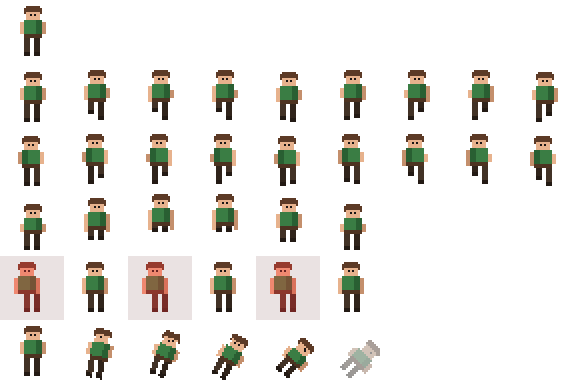
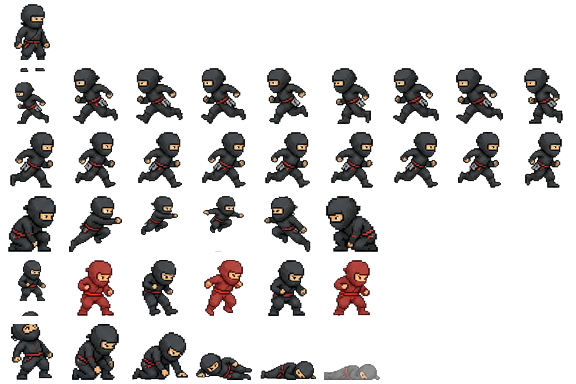
Replace procedural placeholder with an AI-generated ninja spritesheet
Extracted the real player art from an AI-generated source image
(tools/player_ai_source_raw.png) instead of the procedural stick-figure
placeholder. The image-gen model didn't use one consistent grid across
rows (the 6-frame rows like jump/hit/death were spaced differently than
the 9-frame walk rows), so tools/extract_player_sheet_from_ai_source.py
detects each character by scanning for connected non-background column
ranges per row rather than assuming fixed cell math, then crops each to
its bounding box and centers/bottom-aligns it into a 64x64 cell.

Verified in-game: idle, walk, jump, hit (red flash), and death (collapse)
all render correctly with the new sheet. tools/generate_player_sprite.py
is kept as a fallback/example and now says so, since running it would
overwrite this art with the old placeholder again.

Claude-Session: https://claude.ai/code/session_019oaB5ryC3pTEWKgWwECVMb

diff --git a/player.js b/player.js
@@ -1,8 +1,9 @@
 // ==== GRACZ ====
-// images/player/character.png - proceduralnie wygenerowany pixel-art spritesheet
-// (skrypt: tools/generate_player_sprite.py), 64x64px/klatkę, układ wierszy
-// dokładnie taki jak w `states` poniżej. Chcesz podmienić na własną grafikę
-// z LPC Sprite Generatora (https://liberatedpixelcup.github.io/Universal-LPC-Spritesheet-Character-Generator/)?
+// images/player/character.png - pixel-artowy ninja wygenerowany modelem AI
+// (surowa grafika: tools/player_ai_source_raw.png, wycięta i ułożona w klatki
+// przez tools/extract_player_sheet_from_ai_source.py), 64x64px/klatkę, układ
+// wierszy dokładnie taki jak w `states` poniżej. Chcesz podmienić na własną
+// grafikę z LPC Sprite Generatora (https://liberatedpixelcup.github.io/Universal-LPC-Spritesheet-Character-Generator/)?
 // Wystarczy podmienić ścieżkę niżej i dopasować `row` do układu wierszy w Twoim arkuszu.
 const PLAYER_ANIM_DATA = {
     sheets: [

diff --git a/tools/extract_player_sheet_from_ai_source.py b/tools/extract_player_sheet_from_ai_source.py
@@ -1,0 +1,136 @@
+"""
+Wycina spritesheet gracza (images/player/character.png) z surowego obrazu
+wygenerowanego przez model AI (tools/player_ai_source_raw.png, patrz prompt
+w README/rozmowie - postać "ninja", układ 1/9/9/6/6/6 klatek na wiersz).
+
+Modele obrazkowe (w tym GPT Image) NIE trzymają jednej sztywnej siatki kolumn
+w całym arkuszu - np. wiersz "jump" (6 klatek) miał postacie nierówno
+rozstawione w ~2/3 szerokości obrazu, inaczej niż wiersze z 9 klatkami.
+Dlatego zamiast liczyć komórki matematycznie, wykrywamy klatki metodą
+"connected columns": skanujemy każdy wiersz w poziomie i szukamy spójnych
+zakresów kolumn z nie-tłem (z tolerancją na małe przerwy, np. między nogami
+biegnącej postaci), po czym każdą postać przycinamy do jej bounding boxa
+i wklejamy wyśrodkowaną/przyklejoną do dołu w komórce 64x64.
+
+Użycie: pip install Pillow && python3 tools/extract_player_sheet_from_ai_source.py
+Nadpisuje images/player/character.png.
+"""
+import os
+from PIL import Image
+
+_HERE = os.path.dirname(__file__)
+SRC = os.path.join(_HERE, "player_ai_source_raw.png")
+OUT = os.path.join(_HERE, "..", "images", "player", "character.png")
+
+ROWS = 6
+FRAME = 64
+BG_THRESHOLD = 222
+GAP_MERGE = 18  # przerwy mniejsze niż tyle px łączymy w jedną postać
+
+
+def is_bg(p):
+    r, g, b = p[:3]
+    return min(r, g, b) > BG_THRESHOLD
+
+
+def find_column_spans(row_rgb):
+    w, h = row_rgb.size
+    px = row_rgb.load()
+    has_content = []
+    for x in range(w):
+        has = any(not is_bg(px[x, y]) for y in range(0, h, 2))
+        has_content.append(has)
+
+    raw_ranges = []
+    start = None
+    for x, has in enumerate(has_content):
+        if has and start is None:
+            start = x
+        if not has and start is not None:
+            raw_ranges.append([start, x - 1])
+            start = None
+    if start is not None:
+        raw_ranges.append([start, w - 1])
+
+    # scal sąsiednie zakresy oddzielone małą przerwą (np. między nogami)
+    merged = []
+    for r in raw_ranges:
+        if merged and r[0] - merged[-1][1] <= GAP_MERGE:
+            merged[-1][1] = r[1]
+        else:
+            merged.append(r)
+    return merged
+
+
+def make_alpha(img_rgb):
+    w, h = img_rgb.size
+    rgba = img_rgb.convert("RGBA")
+    px = rgba.load()
+    for y in range(h):
+        for x in range(w):
+            if is_bg(px[x, y]):
+                r, g, b, a = px[x, y]
+                px[x, y] = (r, g, b, 0)
+    return rgba
+
+
+def tight_bbox(rgba_cell):
+    return rgba_cell.split()[-1].getbbox()
+
+
+def build_frame(char_rgba):
+    cw, ch = char_rgba.size
+    scale = min(56 / cw, 56 / ch)
+    new_w = max(1, round(cw * scale))
+    new_h = max(1, round(ch * scale))
+    char_resized = char_rgba.resize((new_w, new_h), Image.LANCZOS)
+    frame = Image.new("RGBA", (FRAME, FRAME), (0, 0, 0, 0))
+    px = (FRAME - new_w) // 2
+    py = FRAME - 4 - new_h
+    frame.paste(char_resized, (px, py), char_resized)
+    return frame
+
+
+def main():
+    src = Image.open(SRC).convert("RGB")
+    w, h = src.size
+    cell_h = h / ROWS
+
+    expected = [
+        ("idle", 0, 1),
+        ("move-left", 1, 9),
+        ("move-right", 2, 9),
+        ("jump", 3, 6),
+        ("hit", 4, 6),
+        ("death", 5, 6),
+    ]
+
+    sheet = Image.new("RGBA", (FRAME * 9, FRAME * ROWS), (0, 0, 0, 0))
+    counts = {}
+
+    for out_row, (name, src_row, max_cols) in enumerate(expected):
+        y0 = round(src_row * cell_h)
+        y1 = round((src_row + 1) * cell_h)
+        row_rgb = src.crop((0, y0, w, y1))
+        row_rgba = make_alpha(row_rgb)
+
+        spans = find_column_spans(row_rgb)
+        spans = spans[:max_cols]  # bierzemy maksymalnie tyle, ile oczekujemy
+        counts[name] = len(spans)
+
+        for col, (sx0, sx1) in enumerate(spans):
+            cell = row_rgba.crop((sx0, 0, sx1 + 1, row_rgba.height))
+            bbox = tight_bbox(cell)
+            if bbox is None:
+                continue
+            char = cell.crop(bbox)
+            frame = build_frame(char)
+            sheet.paste(frame, (col * FRAME, out_row * FRAME), frame)
+
+    sheet.save(OUT)
+    print("counts:", counts)
+    print("saved:", OUT, sheet.size)
+
+
+if __name__ == "__main__":
+    main()

diff --git a/tools/generate_player_sprite.py b/tools/generate_player_sprite.py
@@ -1,4 +1,9 @@
 """
+UWAGA: images/player/character.png jest teraz wygenerowany z prawdziwej
+grafiki AI (ninja) przez tools/extract_player_sheet_from_ai_source.py.
+Uruchomienie TEGO skryptu nadpisze go z powrotem prostym proceduralnym
+"patyczakiem" - trzymaj się tego pliku tylko jako fallbacku/przykładu.
+
 Proceduralnie generuje spritesheet gracza (pixel-art) pasujący dokładnie do
 PLAYER_ANIM_DATA w player.js: 64x64px/klatkę, 6 wierszy:
   0 idle        (1 klatka)
